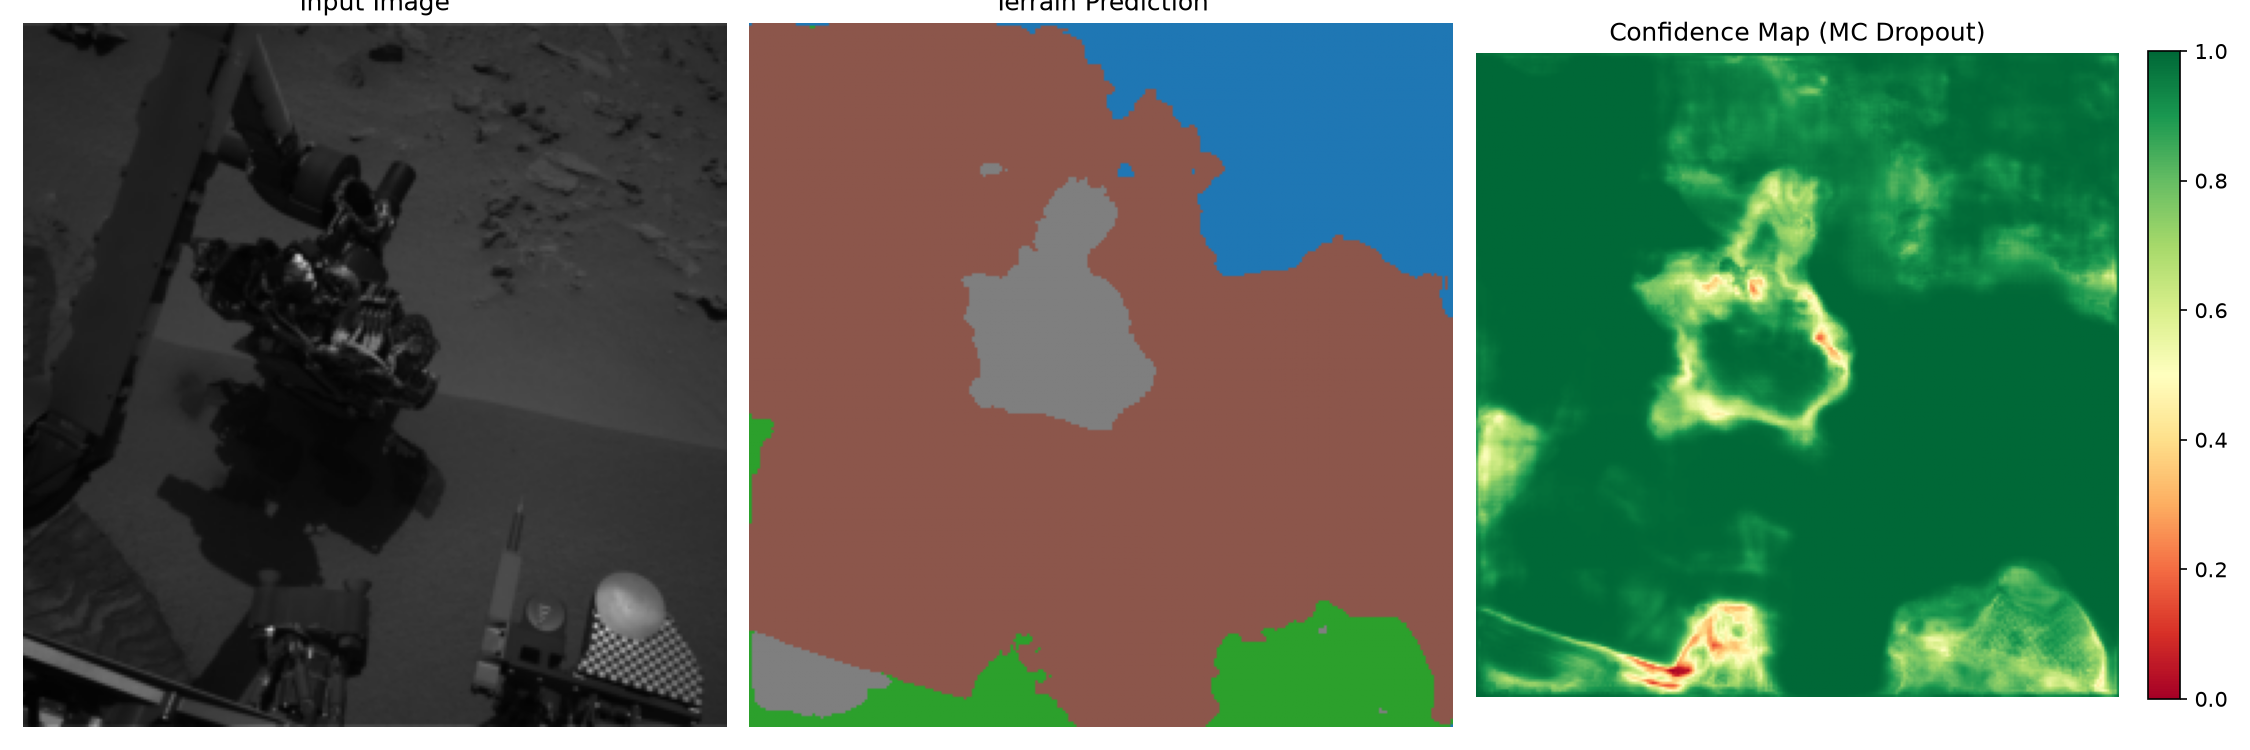
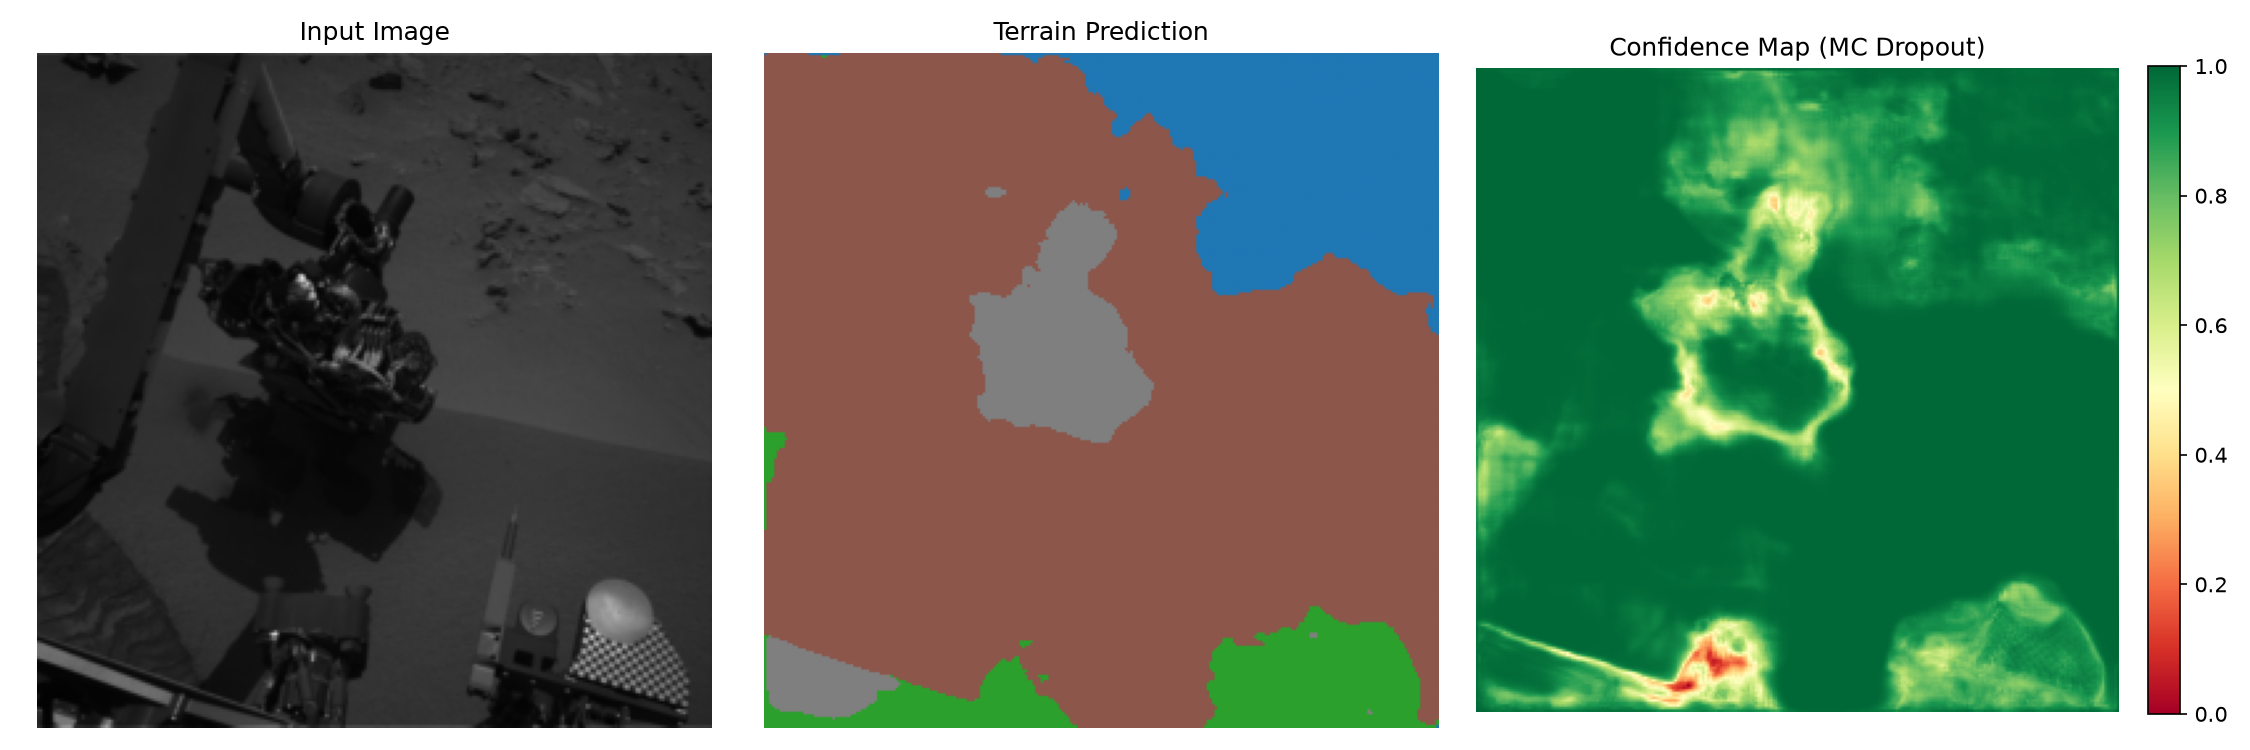
Fix visualization title clipping; add baseline comparison for path planning

diff --git a/src/path_planner.py b/src/path_planner.py
@@ -24,7 +24,7 @@ def a_star_search(risk_map, start, goal, risk_weight=5.0):
     def step_cost(node):
         r, c = node
         base = 1.0
-        risk_penalty = risk_map[r, c] * risk_weight
+        risk_penalty = (risk_map[r, c] ** 2) * risk_weight
         return base + risk_penalty
 
     open_set = [(0, start)]
@@ -50,7 +50,7 @@ def a_star_search(risk_map, start, goal, risk_weight=5.0):
                 f_score = tentative_g + heuristic(neighbor, goal)
                 heapq.heappush(open_set, (f_score, neighbor))
 
-    return None  # no path found
+    return None
 
 
 if __name__ == "__main__":
@@ -80,36 +80,48 @@ if __name__ == "__main__":
     gray_image = np.array(img_resized.convert("L"))
     risk_map = compute_risk_map(terrain_pred, gray_image)
 
-    start = (10, 10)
-    goal = (240, 240)
+    start = (10, 250)
+    goal = (250, 10)
 
-    path = a_star_search(risk_map, start, goal, risk_weight=5.0)
+    def evaluate_path(path, risk_map):
+        risks = [risk_map[r, c] for r, c in path]
+        return {
+            "length": len(path),
+            "mean_risk": np.mean(risks),
+            "max_risk": np.max(risks),
+            "total_risk_exposure": np.sum(risks),
+        }
 
-    if path is None:
-        print("No path found.")
-    else:
-        print(f"Path found with {len(path)} steps.")
+    print("=== NAIVE (shortest-path, risk-blind) ===")
+    naive_path = a_star_search(risk_map, start, goal, risk_weight=0.0)
+    naive_stats = evaluate_path(naive_path, risk_map)
+    for k, v in naive_stats.items():
+        print(f"  {k}: {v:.3f}" if isinstance(v, float) else f"  {k}: {v}")
 
-        path_confidences = [confidence_map[r, c] for r, c in path]
-        low_conf_points = [(r, c) for (r, c), conf in zip(path, path_confidences) if conf < 0.5]
-        print(f"Mean path confidence: {np.mean(path_confidences):.3f}")
-        print(f"Low-confidence points flagged for review: {len(low_conf_points)}")
+    print("\n=== DHRUVA (risk-aware) ===")
+    dhruva_path = a_star_search(risk_map, start, goal, risk_weight=30.0)
+    dhruva_stats = evaluate_path(dhruva_path, risk_map)
+    for k, v in dhruva_stats.items():
+        print(f"  {k}: {v:.3f}" if isinstance(v, float) else f"  {k}: {v}")
 
-        fig, ax = plt.subplots(1, 1, figsize=(8, 8))
+    print("\n=== COMPARISON ===")
+    risk_reduction = (1 - dhruva_stats["mean_risk"] / naive_stats["mean_risk"]) * 100
+    length_increase = (dhruva_stats["length"] / naive_stats["length"] - 1) * 100
+    print(f"  Mean risk reduced by: {risk_reduction:.1f}%")
+    print(f"  Path length increased by: {length_increase:.1f}%")
+
+    fig, axes = plt.subplots(1, 2, figsize=(16, 8))
+    for ax, path, title in [(axes[0], naive_path, "Naive (Shortest Path)"),
+                              (axes[1], dhruva_path, "DHRUVA (Risk-Aware)")]:
         ax.imshow(risk_map, cmap="RdYlGn_r", vmin=0, vmax=1)
-        path_rows = [p[0] for p in path]
-        path_cols = [p[1] for p in path]
-        ax.plot(path_cols, path_rows, color="blue", linewidth=2, label="Planned path")
-        ax.scatter([start[1]], [start[0]], color="lime", s=100, marker="o", label="Start", zorder=5)
-        ax.scatter([goal[1]], [goal[0]], color="cyan", s=100, marker="*", label="Goal", zorder=5)
+        rows = [p[0] for p in path]
+        cols = [p[1] for p in path]
+        ax.plot(cols, rows, color="blue", linewidth=2)
+        ax.scatter([start[1]], [start[0]], color="lime", s=100, marker="o", zorder=5)
+        ax.scatter([goal[1]], [goal[0]], color="cyan", s=100, marker="*", zorder=5)
+        ax.set_title(title)
+        ax.axis("off")
 
-        if low_conf_points:
-            lc_rows = [p[0] for p in low_conf_points]
-            lc_cols = [p[1] for p in low_conf_points]
-            ax.scatter(lc_cols, lc_rows, color="black", s=30, marker="x", label="Low confidence", zorder=6)
-
-        ax.legend()
-        ax.set_title("DHRUVA: Planned Safe Path with Risk Map")
-        plt.tight_layout()
-        plt.savefig("../outputs/path_planning_sample.png", dpi=150)
-        print("Saved path_planning_sample.png")
+    plt.tight_layout(rect=[0, 0, 1, 0.96])
+    plt.savefig("../outputs/baseline_comparison.png", dpi=150)
+    print("\nSaved baseline_comparison.png")

diff --git a/src/slip_risk.py b/src/slip_risk.py
@@ -85,7 +85,7 @@ if __name__ == "__main__":
     axes[2].axis("off")
     plt.colorbar(im, ax=axes[2], fraction=0.046, pad=0.04)
 
-    plt.tight_layout()
+    plt.tight_layout(rect=[0, 0, 1, 0.96])
     output_path = "../outputs/risk_map_sample.png"
     plt.savefig(output_path, dpi=150)
     print(f"\nSaved visualization to {output_path}")

diff --git a/src/uncertainty.py b/src/uncertainty.py
@@ -73,6 +73,6 @@ if __name__ == "__main__":
     axes[2].axis("off")
     plt.colorbar(im, ax=axes[2], fraction=0.046, pad=0.04)
 
-    plt.tight_layout()
+    plt.tight_layout(rect=[0, 0, 1, 0.96])
     plt.savefig("../outputs/confidence_map_sample.png", dpi=150)
     print("Saved confidence_map_sample.png")
